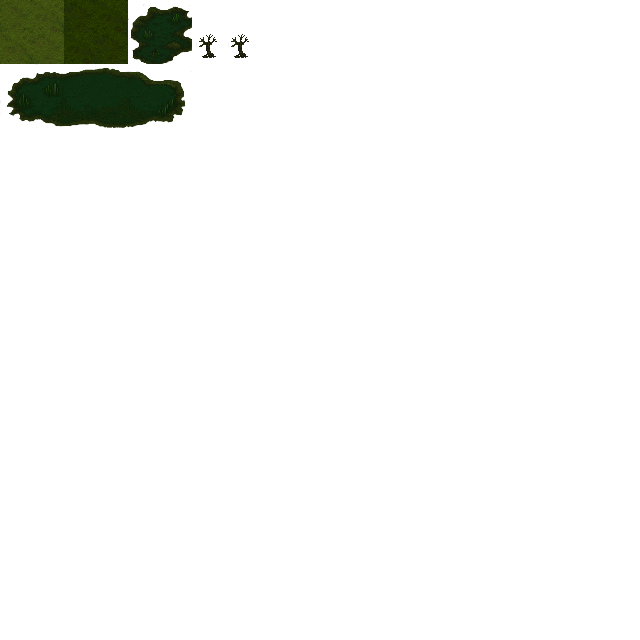
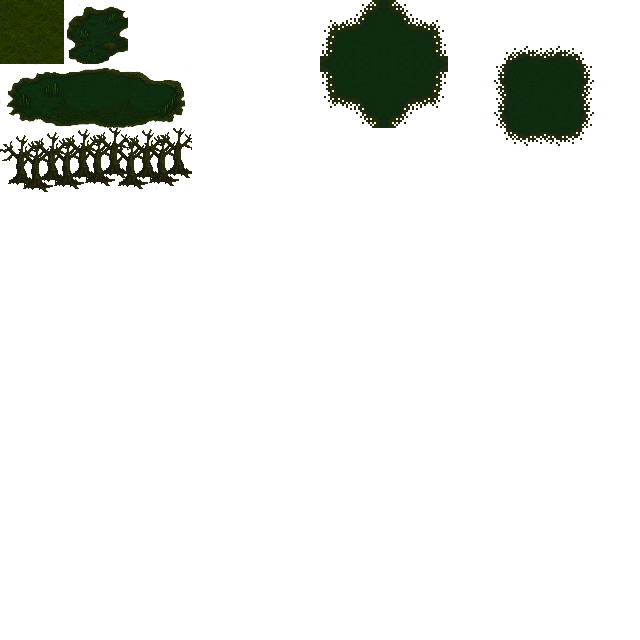
Update tiles

diff --git a/src/game/scenes/game-level.js b/src/game/scenes/game-level.js
@@ -5,8 +5,9 @@ export class GameLevel {
         this.game = game
         this.mapData = require('../maps/world.json')
         this.tiles = new SpriteSheet('tiles', 640, 640)
-        this.animation = this.tiles.getAnimation([1, 2, 3, 4], 700, true, true)
-        this.animation.setXY(20, 20)
+        this.playerSprites = new SpriteSheet('player', 576, 256)
+        this.player = this.playerSprites.getAnimation([10, 11, 12, 13, 14, 15, 16, 17, 18], 200, true, true)
+        this.player.setXY(0, 0)
     }
 
     init() {
@@ -15,9 +16,9 @@ export class GameLevel {
     }
 
     render(timestamp) {
-        this.animation.update(timestamp)
+        this.player.update(timestamp)
         this.game.screen.fill('black')
         this.game.screen.drawSprite(this.map)
-        this.game.screen.drawSprite(this.animation)
+        this.game.screen.drawSprite(this.player)
     }
 }

diff --git a/src/game/game.js b/src/game/game.js
@@ -9,7 +9,8 @@ export class Game {
         this.screen = new Screen(640, 640)
         this.screen.loadImages({
             title: 'images/title.png',
-            tiles: 'images/tiles.png'
+            tiles: 'images/tiles.png',
+            player: 'images/player.png'
         })
         this.control = new ControlState()
         this.scenes = {
